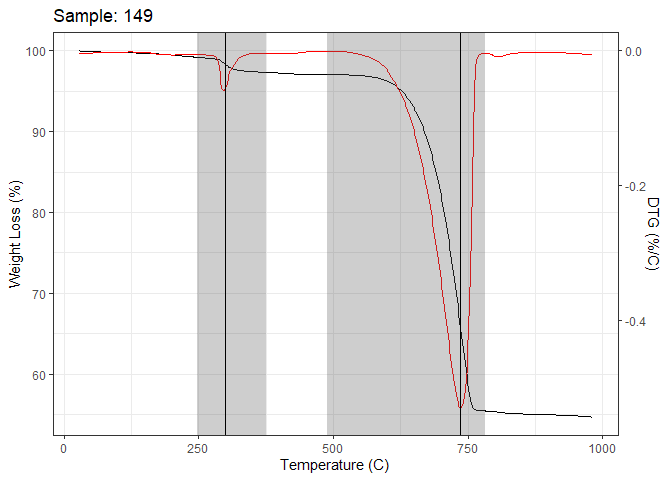
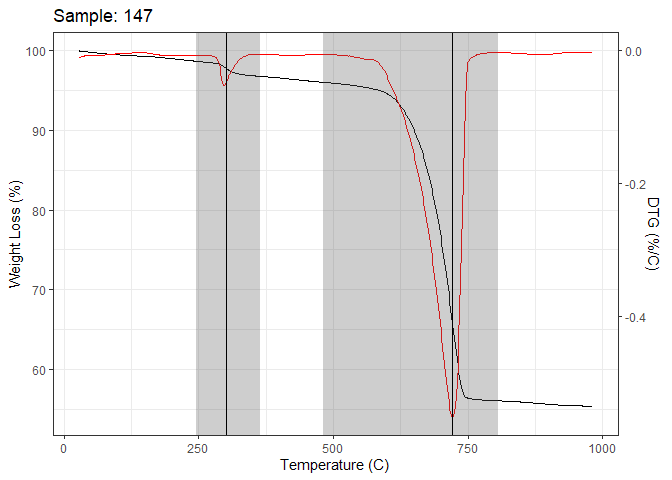
update

diff --git a/_posts/2022-09-15-tgaReview.md b/_posts/2022-09-15-tgaReview.md
@@ -431,6 +431,12 @@ including,
 <img src="/notebook/images/tgaAnalysis/TGA-Analysis-6.png" width="90%" style="display: block; margin: auto;" />
 \[\[7\]\]
 <img src="/notebook/images/tgaAnalysis/TGA-Analysis-7.png" width="90%" style="display: block; margin: auto;" />
+\[\[8\]\]
+<img src="/notebook/images/tgaAnalysis/TGA-Analysis-8.png" width="90%" style="display: block; margin: auto;" />
+\[\[9\]\]
+<img src="/notebook/images/tgaAnalysis/TGA-Analysis-9.png" width="90%" style="display: block; margin: auto;" />
+\[\[10\]\]
+<img src="/notebook/images/tgaAnalysis/TGA-Analysis-10.png" width="90%" style="display: block; margin: auto;" />
 <table>
 <caption>
 Table 2: Batch 1 Results
@@ -458,6 +464,46 @@ loss
 </tr>
 </thead>
 <tbody>
+<tr>
+<td style="text-align:center;">
+147
+</td>
+<td style="text-align:center;">
+caco3
+</td>
+<td style="text-align:center;">
+481.04
+</td>
+<td style="text-align:center;">
+721.23
+</td>
+<td style="text-align:center;">
+806.28
+</td>
+<td style="text-align:center;">
+39.953
+</td>
+</tr>
+<tr>
+<td style="text-align:center;">
+148
+</td>
+<td style="text-align:center;">
+caco3
+</td>
+<td style="text-align:center;">
+480.22
+</td>
+<td style="text-align:center;">
+728.76
+</td>
+<td style="text-align:center;">
+822.17
+</td>
+<td style="text-align:center;">
+40.729
+</td>
+</tr>
 <tr>
 <td style="text-align:center;">
 149
@@ -540,6 +586,26 @@ caco3
 </tr>
 <tr>
 <td style="text-align:center;">
+40
+</td>
+<td style="text-align:center;">
+caco3
+</td>
+<td style="text-align:center;">
+494.61
+</td>
+<td style="text-align:center;">
+738.14
+</td>
+<td style="text-align:center;">
+783.18
+</td>
+<td style="text-align:center;">
+41.561
+</td>
+</tr>
+<tr>
+<td style="text-align:center;">
 58
 </td>
 <td style="text-align:center;">
@@ -596,6 +662,46 @@ caco3
 </td>
 <td style="text-align:center;">
 41.586
+</td>
+</tr>
+<tr>
+<td style="text-align:center;">
+147
+</td>
+<td style="text-align:center;">
+organics
+</td>
+<td style="text-align:center;">
+245.99
+</td>
+<td style="text-align:center;">
+300.97
+</td>
+<td style="text-align:center;">
+364.31
+</td>
+<td style="text-align:center;">
+1.891
+</td>
+</tr>
+<tr>
+<td style="text-align:center;">
+148
+</td>
+<td style="text-align:center;">
+organics
+</td>
+<td style="text-align:center;">
+245.19
+</td>
+<td style="text-align:center;">
+301.84
+</td>
+<td style="text-align:center;">
+378.50
+</td>
+<td style="text-align:center;">
+1.965
 </td>
 </tr>
 <tr>
@@ -680,6 +786,26 @@ organics
 </tr>
 <tr>
 <td style="text-align:center;">
+40
+</td>
+<td style="text-align:center;">
+organics
+</td>
+<td style="text-align:center;">
+254.55
+</td>
+<td style="text-align:center;">
+296.21
+</td>
+<td style="text-align:center;">
+387.88
+</td>
+<td style="text-align:center;">
+1.860
+</td>
+</tr>
+<tr>
+<td style="text-align:center;">
 58
 </td>
 <td style="text-align:center;">
@@ -749,8 +875,10 @@ Figure 6. Genotype Specific Percent Loss
 
 <img src="/notebook/images/tgaAnalysis/genotypeStats-1.png" width="90%" style="display: block; margin: auto;" />
 The organics figure looks like MB-B has a slight difference, but looking
-at the y axis its median is only 4% less than the median of the other
+at the y axis its median is only 7% less than the median of the other
 two genotypes and currently not showing significant genotype differences
-(F=2.027, p=0.247).
+(F=3.372, p=0.094). However, we still have a handful of more samples to
+run. FTIR analysis may help classify the specific differences rather
+than bulk concentration of organics quantified here.
 
 </div>
